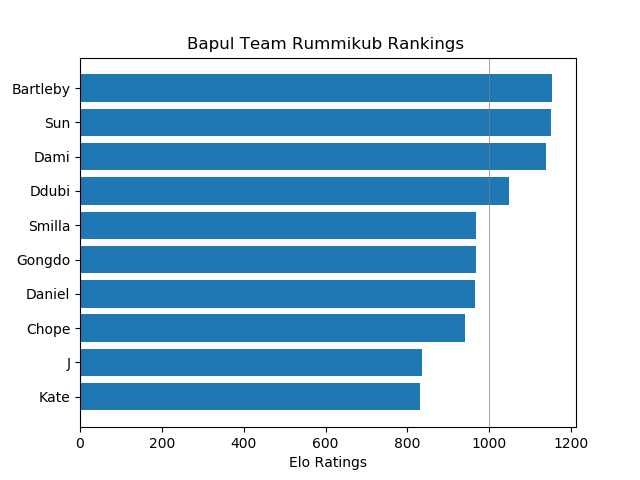
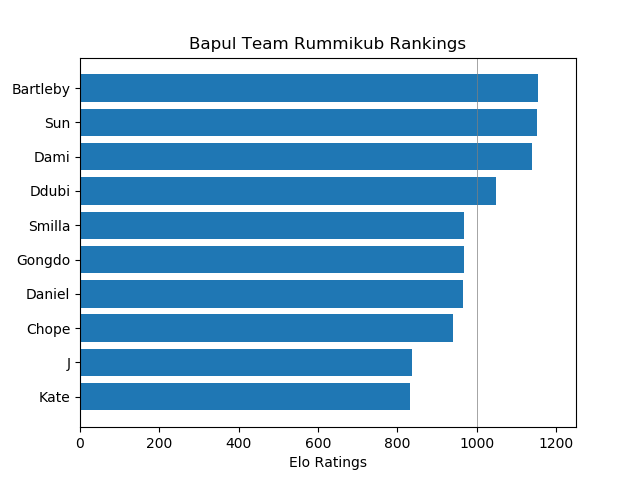
Visualize daily rankings close #3
matplotlib + imageio

diff --git a/output_elo_ratings.py b/output_elo_ratings.py
@@ -1,9 +1,14 @@
-from typing import List
+from collections import OrderedDict
+from typing import Dict, List
 import datetime
+import imageio
 import matplotlib.pyplot as plt
 import numpy as np
+import os
 
 K_FACTOR: int = 32  # https://en.wikipedia.org/wiki/Elo_rating_system#Mathematical_details
+CSV_FILES_DIRECTORY: str = 'csv_files'
+IMAGE_FILES_DIRECTORY: str = 'image_files'
 INPUT_FILE_NAME: str = 'rummikub.csv'
 OUTPUT_FILE_NAME: str = 'elo_ratings.csv'
 INITIAL_ELO_RATING: float = 1000
@@ -23,19 +28,43 @@ class GameRecord:
         self.winner: Player = winner
 
 
-def process_game_records(players: List[Player], records: List[GameRecord]) -> List[Player]:
+def process_game_records(players: List[Player], records: List[GameRecord]) -> Dict[datetime.date, dict]:
+    initial_date: datetime.date = None
+    daily_rankings: Dict[datetime.date, dict] = {}
+    last_date_updated: datetime.date = None
     for record in records:
-        winner = record.winner
+        # Add initial rankings
+        if initial_date is None:
+            initial_date = record.date - datetime.timedelta(days=1)
+            initial_ratings: Dict[str, float] = {player.name: player.rating for player in players}
+            daily_rankings.update({initial_date: initial_ratings})
+        if last_date_updated is None:
+            last_date_updated = initial_date
+
+        # Save rankings if a record with new date appears
+        if record.date not in daily_rankings:
+            rankings: Dict[str, float] = {player.name: player.rating for player in players}
+            daily_rankings.update({last_date_updated: rankings})
+
+        # in any case, update the ratings
+        winner: Player = record.winner
         # Formula taken from https://en.wikipedia.org/wiki/Elo_rating_system#Theory
         # Because we ended the game once the first place was determined,
         # I thought of the winner having played against each non-winner ("loser" in this script)
         # Credit: http://www.tckerrigan.com/Misc/Multiplayer_Elo/
-        for loser in record.losers:
-            winner_expected_chance = 1 / (1 + pow(10, ((loser.rating - winner.rating) / 400)))
-            loser_expected_chance = 1 - winner_expected_chance
+        for loser in record.losers:  # loser: Player
+            winner_expected_chance: float = 1 / (1 + pow(10, ((loser.rating - winner.rating) / 400)))
+            loser_expected_chance: float = 1 - winner_expected_chance
             winner.rating += K_FACTOR * (1 - winner_expected_chance)  # 1 for winner
             loser.rating += K_FACTOR * (0 - loser_expected_chance)  # 0 for loser
-    return players
+
+        # Update the date as well
+        last_date_updated = record.date
+
+    # Save the final rankings
+    rankings: Dict[str, float] = {player.name: player.rating for player in players}
+    daily_rankings.update({last_date_updated: rankings})
+    return daily_rankings
 
 
 def main():
@@ -48,12 +77,12 @@ def main():
         # process the first line (player names are in the header)
         line: str = file.readline().strip()
         columns: List[str] = line.split(',')
-        for cell in columns[1:]:
+        for cell in columns[1:]:  # cell: str
             player = Player(cell)
             players.append(player)
 
         # process the remaining lines (game records)
-        for line in file:
+        for line in file:  # line: str
             columns: List[str] = line.strip().split(',')
             date: str = columns[0]
             losers: List[Player] = []
@@ -67,7 +96,7 @@ def main():
             record = GameRecord(date, losers, winner)
             records.append(record)
 
-    players = process_game_records(players, records)
+    daily_rankings = process_game_records(players, records)
 
     # output result
     with open(OUTPUT_FILE_NAME, 'w', encoding='utf8') as file:
@@ -76,13 +105,37 @@ def main():
         for player in players:
             file.write('{},{:.2f}\n'.format(player.name, player.rating))
 
+    images: List[imageio.core.util.Array] = []
+    image_file_names: List[str] = []
 
-def visualize_rankings(rankings_file_name: str, save_image_file=True):
+    colors: Dict[str, tuple] = {player.name: tuple(np.random.rand(3, )) for player in players}
+    dates: List[datetime.date] = []
+    for date, rankings in daily_rankings.items():
+        date: datetime.date
+        dates.append(date)
+        file_name: str = date.strftime('csv_files/DailyRankings%Y%m%d.csv')
+        with open(file_name, 'w', encoding='utf8') as file:
+            file.write('Player,Elo Rating\n')
+            ordered_rankings = OrderedDict(sorted(rankings.items(), key=lambda x: (-x[1], x[0])))
+            for player, rating in ordered_rankings.items():
+                file.write('{},{:.2f}\n'.format(player, rating))
+        image_file_name: str = date.strftime('image_files/DailyRankings%Y%m%d.png')
+        image_file_names.append(image_file_name)
+        visualize_rankings(file_name, colors, date.strftime('%Y-%m-%d'), True, image_file_name)
+        image: imageio.core.util.Array = imageio.imread(image_file_name)
+        images.append(image)
+    imageio.mimsave('rankings.gif', images, duration=0.5)
+
+
+def visualize_rankings(rankings_file_name: str, colors=None,
+                       title: str = 'Bapul Team Rummikub Rankings', save_image_file: bool = False,
+                       image_file_name='Rankings.png'):
     # Fixing random state for reproducibility
     np.random.seed(19680801)
 
     plt.rcdefaults()
-    fig, ax = plt.subplots()
+    fig, ax = plt.subplots(figsize=(6.4, 4.8))  # ax: plt.Axes
+    ax.set_xlim(right=1250)
 
     players: List[str] = []
     ratings: List[float] = []
@@ -95,20 +148,26 @@ def visualize_rankings(rankings_file_name: str, save_image_file=True):
             players.append(player)
             ratings.append(rating)
     members = np.arange(len(players))
+    ordered_colors = None if colors is None else [colors[player] for player in players]
+    ax.barh(members, ratings, align='center', color=ordered_colors)
 
-    ax.barh(members, ratings, align='center')
+    ax.set_xticks([200 * i for i in range(7)])
     ax.set_yticks(members)
     ax.set_yticklabels(players)
     ax.invert_yaxis()  # labels read top-to-bottom
-    ax.set_title('Bapul Team Rummikub Rankings ')
+    ax.set_title(title)
     ax.set_xlabel('Elo Ratings')
     plt.axvline(x=INITIAL_ELO_RATING, color='gray', linewidth=.5)
 
     if save_image_file:
-        plt.savefig('Rankings.png')
-    plt.show()
+        plt.savefig(image_file_name)
+    plt.close()
 
 
 if __name__ == '__main__':
+    directories_needed: List[str] = [CSV_FILES_DIRECTORY, IMAGE_FILES_DIRECTORY]
+    for directory_name in directories_needed:
+        if not os.path.exists(directory_name):
+            os.mkdir(directory_name)
     main()
-    visualize_rankings(OUTPUT_FILE_NAME)
+    visualize_rankings(OUTPUT_FILE_NAME, save_image_file=True)
